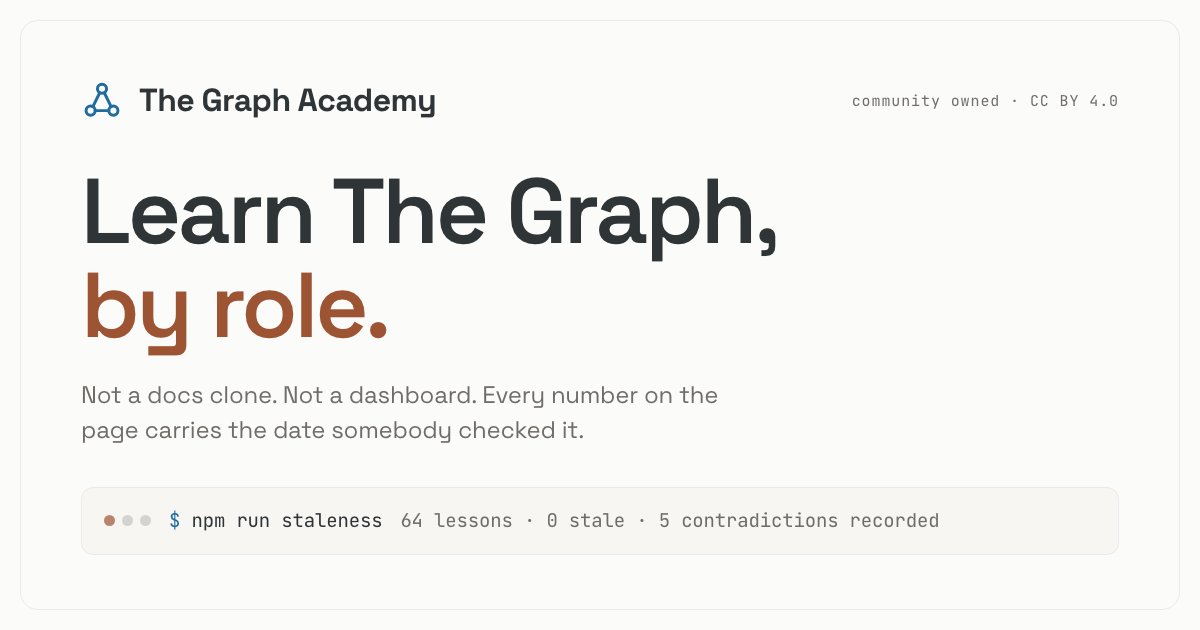
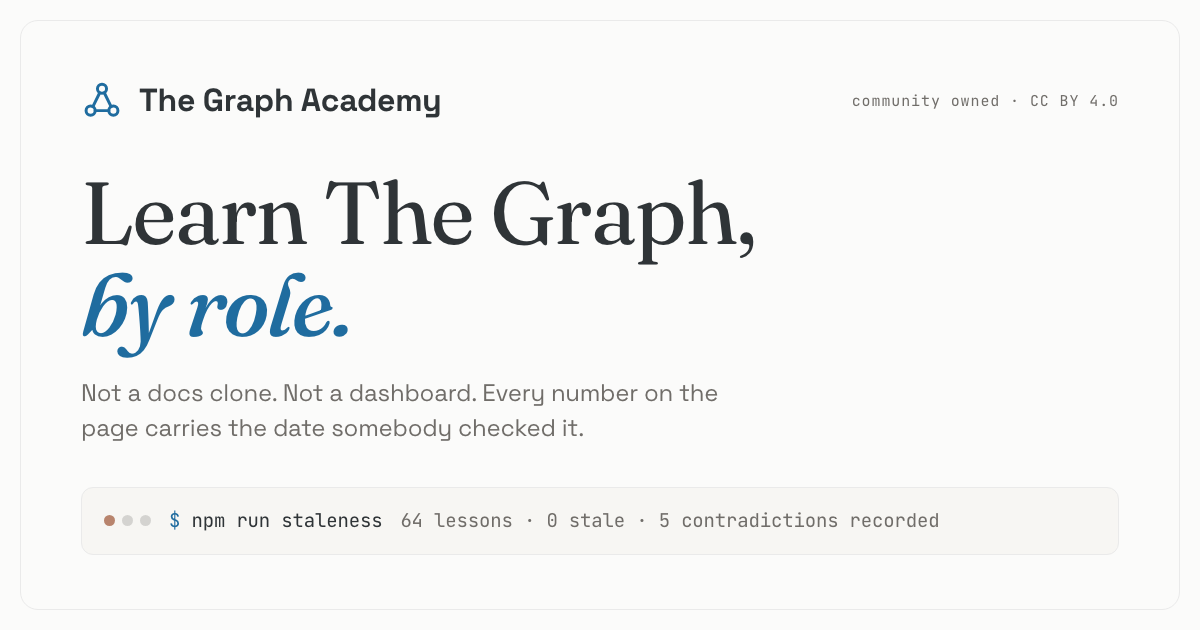
the share card set its headline in space grotesk while the site set headings in fraunces: load the serif, match academy.css, and fail the render when the two drift

diff --git a/tools/og/card.html b/tools/og/card.html
@@ -22,6 +22,26 @@
     src: url('../../public/fonts/jetbrains-mono.woff2') format('woff2');
     font-weight: 400; font-display: block;
   }
+  /* The display serif and its italic accent cut. These were missing, and the
+     omission was invisible: the card links tokens.css, whose base --display is
+     Space Grotesk, and academy.css overrides that to Fraunces on :root. The
+     card never loads academy.css, because academy.css asks for its fonts at
+     /fonts/... and this file is rendered over file://, where an absolute path
+     resolves to the filesystem root. So the headline silently set itself in the
+     wrong face and looked perfectly deliberate for two months. */
+  @font-face {
+    font-family: 'Fraunces';
+    src: url('../../public/fonts/fraunces.woff2') format('woff2');
+    font-weight: 400; font-style: normal; font-display: block;
+  }
+  @font-face {
+    font-family: 'Fraunces';
+    src: url('../../public/fonts/fraunces-italic.woff2') format('woff2');
+    font-weight: 500; font-style: italic; font-display: block;
+  }
+  /* Kept identical to the :root rule in src/styles/academy.css. make-og.mjs
+     compares the two and fails the render if they drift apart. */
+  :root { --display: 'Fraunces', 'Iowan Old Style', 'Palatino Linotype', Georgia, serif; }
   html, body { margin: 0; padding: 0; }
   body { width: 1200px; height: 630px; background: var(--bg); overflow: hidden; }
   /* The share card is now light, matching the site's default theme rather
@@ -38,21 +58,25 @@
   .top { display: flex; align-items: center; justify-content: space-between; }
   .brand { display: flex; align-items: center; gap: 16px; }
   .brand svg { width: 42px; height: 42px; color: var(--accent); }
+  /* The wordmark is not a heading. On the site .brand sets no font-family and
+     inherits --sans from body, so the serif must not reach it here either. */
   .brand span {
-    font-family: var(--display); font-weight: 700; font-size: 32px;
-    letter-spacing: -0.02em; color: var(--text);
+    font-family: var(--sans); font-weight: 700; font-size: 32px;
+    letter-spacing: -0.01em; color: var(--text);
   }
   .meta {
     font-family: var(--mono); font-size: 15px; letter-spacing: 0.06em;
     color: var(--text-muted);
   }
 
+  /* Weight, tracking and the italic accent cut all follow academy.css, which
+     runs the serif at 400 and sets the em clause in --accent, not --rust. */
   h1 {
-    font-family: var(--display); font-weight: 600; font-size: 92px;
-    line-height: 1.02; letter-spacing: -0.035em; margin: 0;
+    font-family: var(--display); font-weight: 400; font-size: 88px;
+    line-height: 1.04; letter-spacing: -0.018em; margin: 0;
     color: var(--text);
   }
-  h1 em { font-style: normal; color: var(--rust); }
+  h1 em { font-style: italic; font-weight: 500; color: var(--accent); }
   .lede {
     font-family: var(--sans); font-size: 24px; line-height: 1.45;
     color: var(--text-muted); margin: 26px 0 0; max-width: 44ch;
